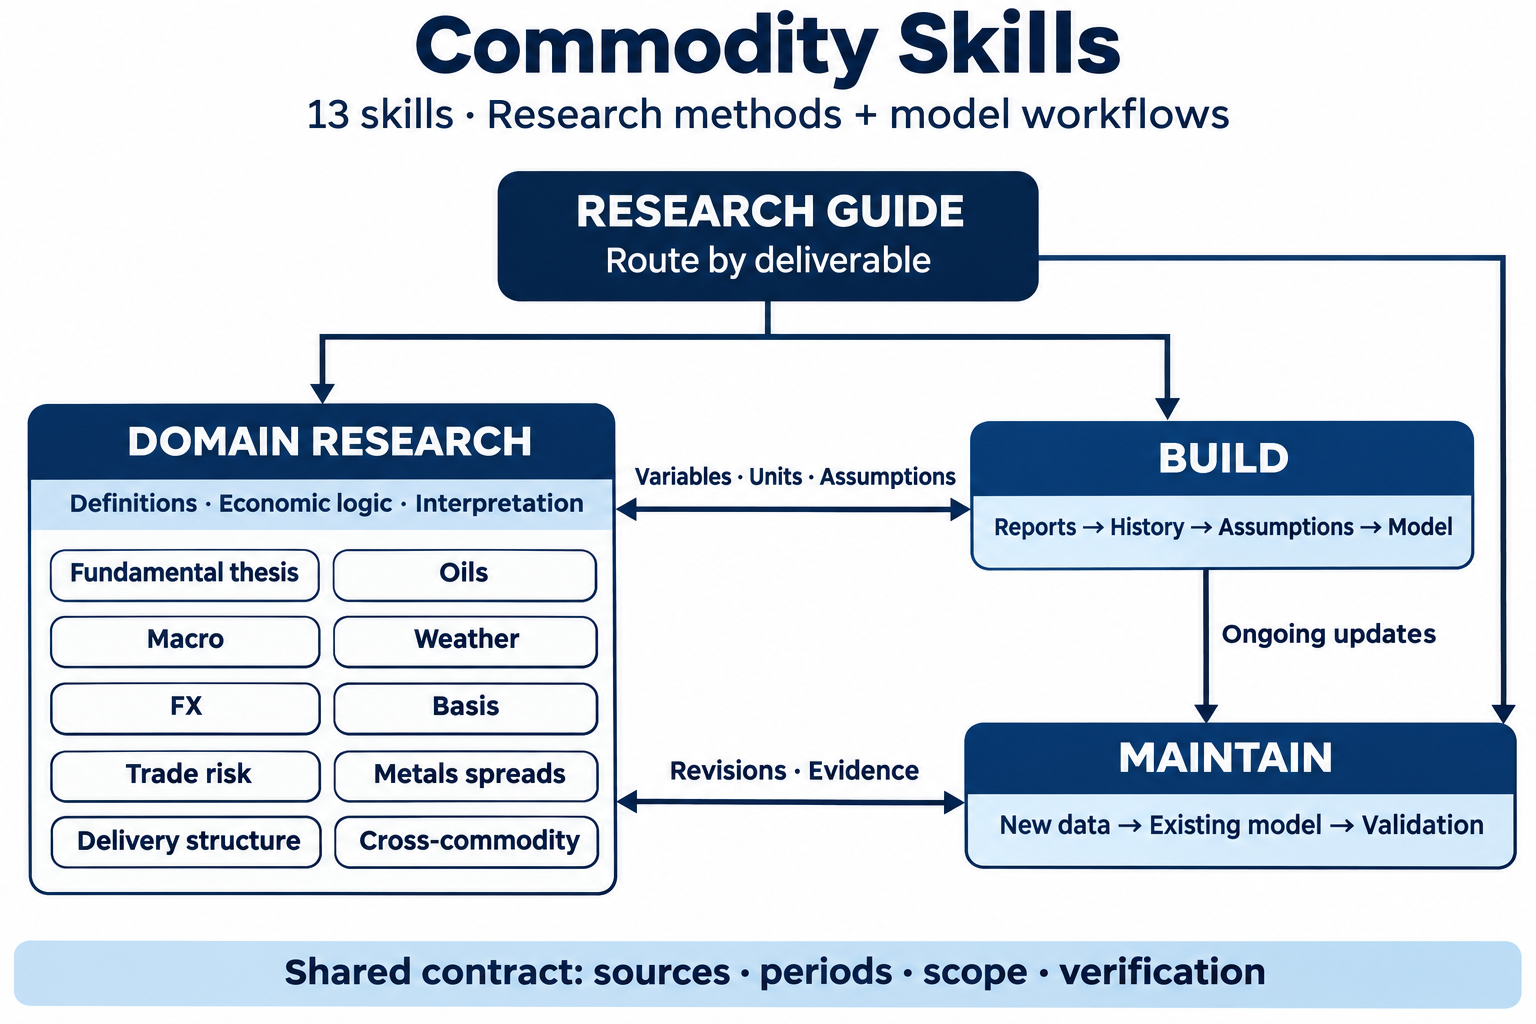
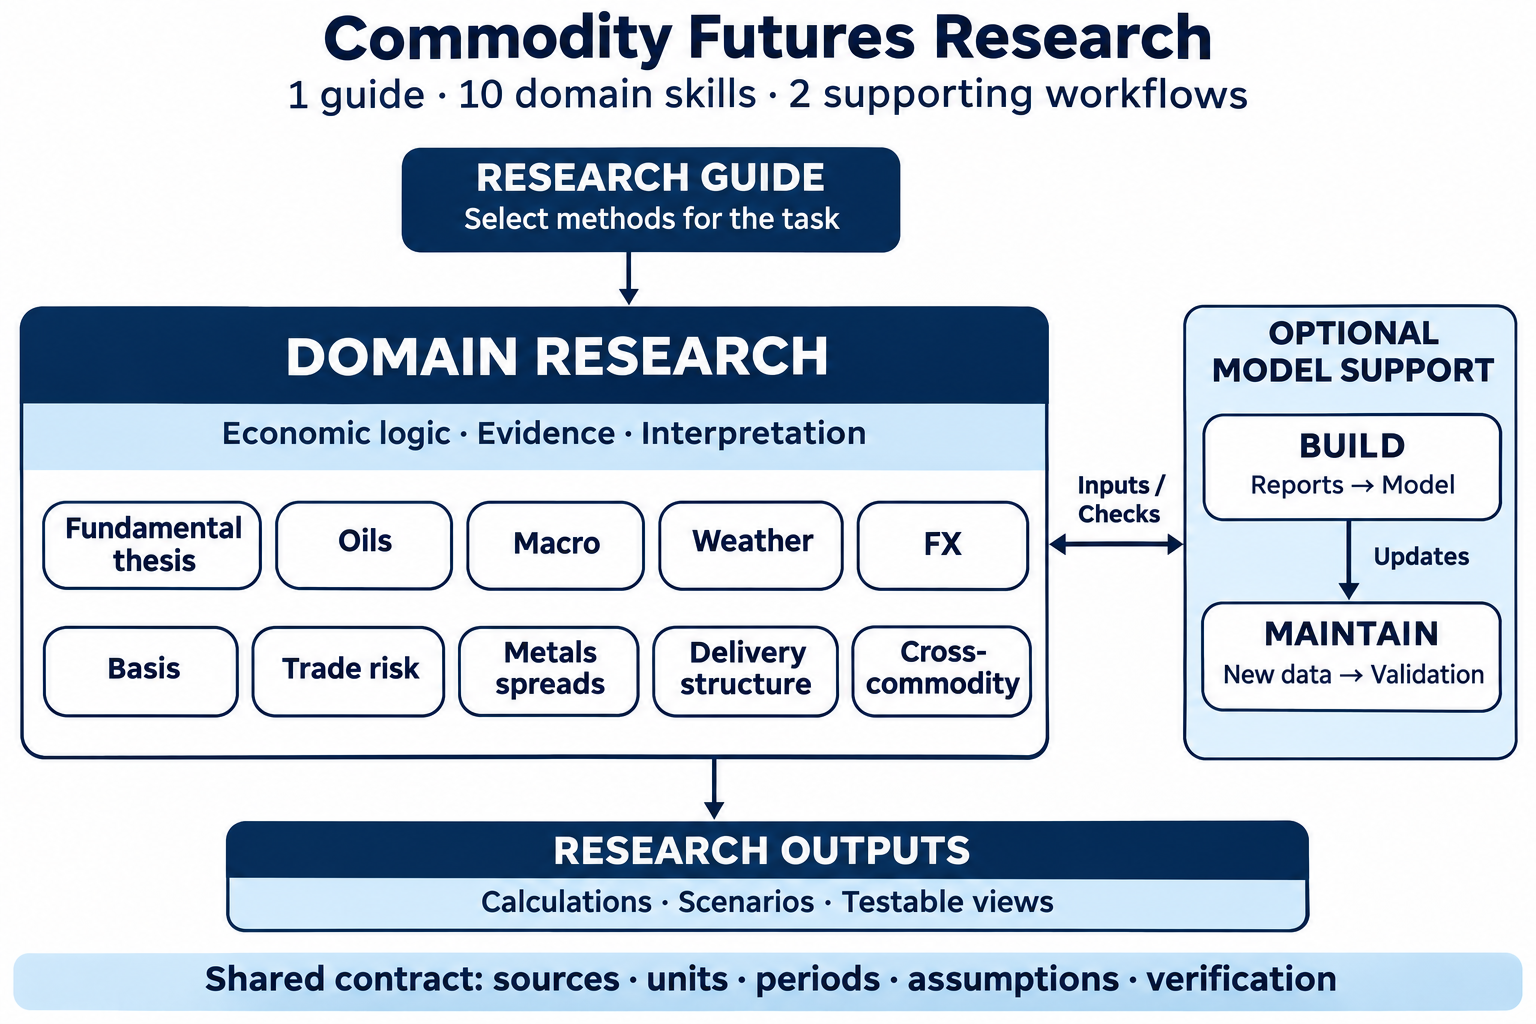
Redesign research library presentation and collaboration diagram

diff --git a/README.en.md b/README.en.md
@@ -1,54 +1,175 @@
-# Commodity Futures Research Skills
+<p align="center">
+  <a href="README.md">简体中文</a> · <strong>English</strong>
+</p>
 
-[简体中文](README.md) | **English**
+<h1 align="center">Commodity Futures Research Skills</h1>
+<p align="center"><strong>Research methods for AI agents working on fundamentals, price relationships and risk.</strong></p>
+<p align="center">Supply & demand · Macro drivers · Basis & spreads · Delivery structure · Trade risk</p>
+<p align="center">
+  <a href="#skill-catalog"><img src="https://img.shields.io/badge/Skills-13-16477b" alt="13 Skills"></a>
+</p>
+<p align="center">
+  <a href="#start-with-a-research-question">Research tasks</a> ·
+  <a href="#input-and-output-examples">Examples</a> ·
+  <a href="#skill-catalog">Skills</a> ·
+  <a href="#install-and-start">Get started</a>
+</p>
 
-An AI skill library for commodity futures research: analyze industry fundamentals, explain price drivers, evaluate basis and spreads, assess trade and hedging risks, and develop evidence-based, testable research views.
+## Why these skills
 
-## Research capabilities
+Commodity research connects physical markets, price relationships and risk exposures on a consistent basis. Falling stocks at one location may not imply a national shortage; a profitable futures leg alone does not establish a profitable hedge.
 
-The library contains **1 research guide, 10 domain skills, and 2 balance-sheet workflows**. Domain skills provide research methods and industry definitions. Balance-sheet construction and maintenance support tasks that require modeling and form one subset of the library.
+This library turns research tasks into callable methods: define the product, region and horizon, check data and units, recompute key relationships, and develop evidence-based views with explicit invalidation conditions.
+
+## Start with a research question
+
+| Research question | Lead skill | Deliverable |
+|---|---|---|
+| Why do inventories and profits diverge? | Fundamental thesis | Supply–demand attribution, baseline and opposing scenarios, invalidation conditions |
+| Is the hedged business profitable despite falling spot prices? | Basis | Physical and futures P&L, costs and residual exposure |
+| Why do PTA and ethylene glycol perform differently? | Cross-commodity | Economic links, individual drivers, leg contributions and counter-evidence |
+| How do policy, weather or FX affect commodities? | Macro / Weather / FX | Transmission channels, timing and verification indicators |
+| Do fewer warehouse receipts imply delivery pressure? | Delivery structure | Deliverable supply, batch eligibility and carry-cost checks |
+| Need to build a model from reports or update a workbook? | Balance-sheet Build / Maintain | Traceable inputs, explicit assumptions and calculation checks |
+
+## How research works
+
+1. **Define the scope**: product, region, contract, observation date and deliverable.
+2. **Select methods**: choose a domain lead; share variables, units, periods and evidence across topics.
+3. **Verify**: distinguish facts, assumptions and gaps; recompute key relationships and test opposing scenarios.
+4. **Deliver a view**: state evidence, uncovered risks, invalidation conditions and the next data to check.
+
+<p align="center">
+  <img src="assets/skill-collaboration.png" width="920" alt="Domain research is the core; balance-sheet Build and Maintain provide optional model support">
+</p>
+
+**1 research guide + 10 domain skills + 2 supporting workflows.** The diagram shows task responsibilities. Balance-sheet workflows are used when modeling is needed. The guide currently routes to the 10 domain skills; invoke Build and Maintain directly by name.
+
+## Input and output examples
+
+These are **synthetic teaching examples already present in the skills**. Numbers illustrate the calculations.
+
+### Spot loses money. What is the combined result?
+
+**Input**: 100 tonnes of spot inventory fully hedged with an equal futures short, with matching location, grade and contract. Spot moves from 3,000 to 2,960 CNY/tonne; futures from 3,050 to 2,980. Total costs are 12 CNY/tonne.
+
+| Calculation | Result |
+|---|---:|
+| Physical P&L | −4,000 CNY |
+| Futures P&L | +7,000 CNY |
+| Combined gross P&L | +3,000 CNY |
+| Net P&L after costs | **+1,800 CNY** |
+
+The output explains that basis strengthens from −50 to −20 CNY/tonne, generating gross P&L of 30 CNY/tonne. Actual work must also verify contract multipliers, quantities and costs. Source: [Basis](skills/commodity-basis/SKILL.md).
+
+<details>
+<summary>Show the calculation</summary>
+
+```text
+Physical P&L = (2,960 − 3,000) × 100 = −4,000 CNY
+Futures P&L = (3,050 − 2,980) × 100 = +7,000 CNY
+Net P&L = −4,000 + 7,000 − 12 × 100 = +1,800 CNY
+```
+
+</details>
+
+### Does a higher product price mean a higher processing margin?
+
+**Input**: product price of 7,200 CNY/tonne; feedstock consumption of 3 tonnes per tonne of product; feedstock price of 2,200 CNY/tonne; processing cost of 450 CNY/tonne of product. Only these cash flows are included. Product price then rises by 90 CNY/tonne and feedstock by 50, with processing cost unchanged.
+
+**Output**: the margin proxy falls from **150 to 90 CNY/tonne of product**, a decline of 60. Feedstock changes must be weighted by consumption, rather than comparing price directions alone. Co-production requires additional revenue and cost inputs. Source: [Cross-commodity](skills/commodity-cross-commodity/SKILL.md).
+
+<details>
+<summary>Show the calculation</summary>
+
+```text
+Initial margin proxy = 7,200 − 3 × 2,200 − 450 = 150 CNY/tonne of product
+Change = 90 − 3 × 50 = −60 CNY/tonne of product
+New margin proxy = 150 − 60 = 90 CNY/tonne of product
+```
+
+</details>
+
+## Skill catalog
+
+### Research guide
 
 | Skill | Purpose |
 |---|---|
 | [Research guide](skills/commodity-research-guide/SKILL.md) | Method selection, terminology, and cross-topic coordination |
+
+### Fundamentals & drivers
+
+| Skill | Purpose |
+|---|---|
 | [Fundamental thesis](skills/commodity-fundamental-thesis/SKILL.md) | Fundamentals, inventories, profits, and falsifiable theses |
 | [Oils](skills/commodity-oils/SKILL.md) | Soybean, palm, and rapeseed oil fundamentals and physical markets |
 | [Macro](skills/commodity-macro/SKILL.md) | Macro and policy transmission to commodity demand and costs |
 | [Weather](skills/commodity-weather/SKILL.md) | Weather effects on production, logistics, and timing |
 | [FX](skills/commodity-fx/SKILL.md) | Currency drivers, payment exposures, and hedging costs |
+
+### Pricing, structure & risk
+
+| Skill | Purpose |
+|---|---|
 | [Basis](skills/commodity-basis/SKILL.md) | Physical pricing, basis trades, and combined physical–futures P&L |
 | [Metals spreads](skills/commodity-metals-spread/SKILL.md) | Metals calendar spreads, carry costs, and import parity |
 | [Delivery structure](skills/commodity-delivery-structure/SKILL.md) | Warehouse receipts, deliverable supply, and contract structure |
 | [Cross-commodity](skills/commodity-cross-commodity/SKILL.md) | Relative value, processing margins, co-products, and substitution |
 | [Trade risk](skills/commodity-trade-risk/SKILL.md) | Performance, credit, ownership, settlement, and funding risk |
+
+### Supporting workflows: balance sheets
+
+| Skill | Purpose |
+|---|---|
 | [Balance-sheet build](skills/commodity-balance-sheet-build/SKILL.md) | Build a supply–demand model from reports, historical data, and assumptions |
 | [Balance-sheet maintain](skills/commodity-balance-sheet-maintain/SKILL.md) | Update existing balances and verify periods, capacity, and formula dependencies |
 
-## How the skills work together
+## Install and start
 
-Select the lead skill for the research question and add supporting skills as needed. Domain skills supply economic logic and interpretation. When modeling is required, use Build or Maintain and pass along variables, units, periods, sources, and assumptions.
+Get the repository:
 
-![Collaboration between the research guide, domain skills, and balance-sheet workflows](assets/skill-collaboration.png)
-
-Build / Maintain represent only the balance-sheet workflows. Macro, basis, spread, delivery, and risk research can run independently without a balance sheet. Arrows indicate task handoffs, not automatic multi-agent execution.
-
-## Use
-
-Copy the required folders from `skills/` into your agent’s skill directory, keeping each `SKILL.md`, its references, and any `agents/` metadata together. Review existing installations before replacing them. Skill instructions are primarily in Chinese.
-
-**Example requests**
-
-```text
-Use $commodity-fundamental-thesis to explain the divergence between
-inventories and profits. Separate facts from assumptions and state
-what would invalidate the thesis.
+```bash
+git clone https://github.com/AY-kkk/commodity-skill.git
 ```
 
+Copy the required **complete skill folders** from `commodity-skill/skills/` into your agent’s skill directory. Preserve `SKILL.md`, `references/` and any `agents/` metadata. Use the installation path configured for your client; review existing folders before replacing them.
+
+Start a new task with a question, source materials and cutoff date:
+
 ```text
-Use $commodity-cross-commodity to compare PTA and ethylene glycol,
-checking each market’s supply, inventories, and shared downstream demand.
+Use $commodity-fundamental-thesis to analyze the monthly reports I provide.
+Product: methanol. Scope: national. Observation cutoff: as stated in the reports.
+Explain the divergence between inventories and profits. Separate facts from
+assumptions and state counter-evidence and invalidation conditions.
 ```
 
-Each skill retains its source references. Keep facts, forecast assumptions, and missing data distinct. Respect the user’s file-editing scope and obtain consent before creating files or worksheets.
+Use `$commodity-research-guide` when unsure which method to choose. Skill instructions are primarily in Chinese. Data retrieval, PDF and Excel tasks require appropriate tools in the client.
 
-`skills/BUILD_MANIFEST.json` records the original 11 research skills; the two balance-sheet workflows are later additions.
+## Repository structure
+
+```text
+commodity-skill/
+├── README.md                         # Chinese entry
+├── README.en.md                      # English
+├── assets/skill-collaboration.png     # Research collaboration diagram
+└── skills/
+    ├── commodity-research-guide/      # Guide and references
+    ├── commodity-fundamental-thesis/  # One domain skill
+    ├── commodity-*/                   # Other domain skills
+    ├── commodity-balance-sheet-build/ # Build balances
+    ├── commodity-balance-sheet-maintain/ # Maintain balances
+    ├── BUILD_MANIFEST.json            # Original research pack build record
+    └── capability-destinations.json   # Original capability mapping
+```
+
+## Sources and boundaries
+
+Each skill retains source references and scope limits. Keep historical teaching parameters separate from current market inputs; verify current rules, contracts and costs as of the research date. State how research conclusions can be tested. Respect the user’s file-editing authorization and obtain consent before creating files or worksheets.
+
+<details>
+<summary>Build provenance and metadata scope</summary>
+
+Metadata for the original guide and 10 domain skills records [cangjie-tools v2.5.0](https://github.com/kangarooking/cangjie-skill) as the generating tool. `BUILD_MANIFEST.json` and `capability-destinations.json` cover those 11 entrypoints. The two balance-sheet workflows are later additions. The tool version is not this library’s version.
+
+</details>

diff --git a/README.md b/README.md
@@ -1,53 +1,174 @@
-# 大宗商品期货研究 Skill 库
+<p align="center">
+  <strong>简体中文</strong> · <a href="README.en.md">English</a>
+</p>
 
-**简体中文** | [English](README.en.md)
+<h1 align="center">大宗商品期货研究 Skill 库</h1>
+<p align="center"><strong>为 AI 助手提供基本面、价格关系与风险研究方法。</strong></p>
+<p align="center">产业供需 · 宏观驱动 · 基差价差 · 交割结构 · 贸易风险</p>
+<p align="center">
+  <a href="#skill-清单"><img src="https://img.shields.io/badge/Skills-13-16477b" alt="13 Skills"></a>
+</p>
+<p align="center">
+  <a href="#从研究问题开始">研究场景</a> ·
+  <a href="#输入与输出示例">输出示例</a> ·
+  <a href="#skill-清单">Skill 清单</a> ·
+  <a href="#安装与首次调用">开始使用</a>
+</p>
 
-面向 AI 助手的大宗商品期货研究工具库，用于梳理产业供需、解释价格驱动、分析基差与价差、评估贸易及套保风险，并形成有依据、可验证的研究判断。
+## 为什么需要这套 Skill
 
-## 研究能力
+商品研究需要把产业事实、价格关系和风险敞口放在同一口径下。库存下降未必代表全国短缺，期货单腿盈利也不能说明套保业务盈利。
 
-全库包含 **1 个研究入口、10 个专业研究 Skill、2 个平衡表工作流**。专业研究组件提供分析方法与产业口径；平衡表搭建和维护服务于需要建模的任务，是整个研究库的一个子集。
+本库把这些研究任务拆成可调用的方法：确定品种、地区与期限，核对数据与单位，复算关键关系，再给出有证据、能被推翻的判断。
+
+## 从研究问题开始
+
+| 你要研究什么 | 先用哪个 Skill | 交付物 |
+|---|---|---|
+| 库存与利润为何背离？ | 基本面与研究观点 | 供需归因、基准与相反情景、观点失效条件 |
+| 现货下跌，套保业务是否仍盈利？ | 基差与套保 | 期现双腿损益、费用及未覆盖敞口 |
+| PTA 与乙二醇为何强弱不同？ | 跨品种研究 | 经济联系、各自驱动、两腿贡献与反证 |
+| 政策、天气或汇率怎样影响商品？ | 宏观 / 天气 / 外汇 | 传导路径、兑现时点和待验证指标 |
+| 仓单减少意味着交割紧张吗？ | 交割与期限结构 | 可交割货源、批次资格及持有成本核查 |
+| 需要从报告建模或更新原表？ | 平衡表搭建 / 维护 | 可追溯输入、明确假设及计算验证 |
+
+## 如何开展研究
+
+1. **定对象**：明确品种、地区、合约、观察日与交付物。
+2. **选方法**：由专业 Skill 主办，跨主题时交接变量、单位、期间和证据。
+3. **做验证**：区分事实、假设与缺口，复算关键关系，检验相反情景。
+4. **交结论**：写明依据、未覆盖风险、失效条件与下一次核验数据。
+
+<p align="center">
+  <img src="assets/skill-collaboration.png" width="920" alt="专业研究为主体，平衡表搭建与维护为按需调用的辅助流程">
+</p>
+
+**1 个研究入口 + 10 个专业研究 Skill + 2 个辅助工作流。** 图表示任务分工；平衡表仅在需要建模时调用。研究入口现有路由覆盖 10 个专业 Skill，搭建和维护可按名称直接调用。
+
+## 输入与输出示例
+
+以下均为仓库已有的**合成教学算例**，数字用于展示核算过程。
+
+### 现货亏损，期现合计结果是多少？
+
+**输入**：同地、同品级、同一合约，100 吨现货与等量期货空头完全对冲。现货价 3,000 → 2,960 元/吨，期货价 3,050 → 2,980 元/吨；全期费用 12 元/吨。
+
+| 核算项目 | 结果 |
+|---|---:|
+| 现货损益 | −4,000 元 |
+| 期货损益 | +7,000 元 |
+| 合计毛收益 | +3,000 元 |
+| 扣费后净收益 | **+1,800 元** |
+
+输出同时解释：基差由 −50 走强至 −20 元/吨，每吨毛收益 30 元；实际业务仍需核对合约乘数、数量和费用。来源：[基差与套保](skills/commodity-basis/SKILL.md)。
+
+<details>
+<summary>展开计算过程</summary>
+
+```text
+现货损益 = (2,960 − 3,000) × 100 = −4,000 元
+期货损益 = (3,050 − 2,980) × 100 = +7,000 元
+净收益 = −4,000 + 7,000 − 12 × 100 = +1,800 元
+```
+
+</details>
+
+### 产品上涨，加工利润也会上升吗？
+
+**输入**：每吨产品报价 7,200 元，原料单耗 3 吨、原料价 2,200 元/吨，加工费 450 元/吨产品；仅考虑上述收支。随后产品涨 90 元/吨，原料涨 50 元/吨，加工费不变。
+
+**输出**：利润代理值由 **150 降至 90 元/吨产品**，减少 60 元。解释价格变化时按单耗折算原料，而非只看两种价格的涨跌方向；联产装置还需补充副产品收入等项目。来源：[跨品种研究](skills/commodity-cross-commodity/SKILL.md)。
+
+<details>
+<summary>展开计算过程</summary>
+
+```text
+初始利润代理值 = 7,200 − 3 × 2,200 − 450 = 150 元/吨产品
+变化 = 90 − 3 × 50 = −60 元/吨产品
+变化后 = 150 − 60 = 90 元/吨产品
+```
+
+</details>
+
+## Skill 清单
+
+### 研究入口
 
 | Skill | 用途 |
 |---|---|
 | [研究入口](skills/commodity-research-guide/SKILL.md) | 研究方法选择、术语查询与跨主题分工 |
+
+### 基本面与驱动
+
+| Skill | 用途 |
+|---|---|
 | [基本面与研究观点](skills/commodity-fundamental-thesis/SKILL.md) | 产业供需、库存与利润分析，建立可证伪观点 |
 | [油脂研究](skills/commodity-oils/SKILL.md) | 豆油、棕榈油、菜油产业链及现货研究 |
 | [宏观研究](skills/commodity-macro/SKILL.md) | 宏观与政策向商品需求、成本的传导 |
 | [天气影响](skills/commodity-weather/SKILL.md) | 天气对产量、物流及供需时点的影响 |
 | [外汇研究](skills/commodity-fx/SKILL.md) | 汇率驱动、收付汇敞口与锁汇成本 |
+
+### 定价、结构与风险
+
+| Skill | 用途 |
+|---|---|
 | [基差与套保](skills/commodity-basis/SKILL.md) | 现货点价、基差交易与期现合并损益 |
 | [有色价差](skills/commodity-metals-spread/SKILL.md) | 有色月差、持有成本与进口窗口 |
 | [交割与期限结构](skills/commodity-delivery-structure/SKILL.md) | 仓单、可交割货源与期限结构 |
 | [跨品种研究](skills/commodity-cross-commodity/SKILL.md) | 跨品种强弱、加工利润、伴生及替代关系 |
 | [贸易风险](skills/commodity-trade-risk/SKILL.md) | 履约、信用、货权、结算与资金风险 |
+
+### 辅助工作流：平衡表
+
+| Skill | 用途 |
+|---|---|
 | [平衡表搭建](skills/commodity-balance-sheet-build/SKILL.md) | 从报告整理历史数据与假设，搭建供需模型 |
 | [平衡表维护](skills/commodity-balance-sheet-maintain/SKILL.md) | 更新已有平衡表，核对期间、产能与公式传导 |
 
-## 组件协作
+## 安装与首次调用
 
-从研究问题选择主办 Skill，按需补充其他组件。专业 Skill 负责经济逻辑和结果解释；涉及建模时，再调用搭建或维护工作流，交接变量、单位、期间、来源和假设。
+获取仓库：
 
-![组件协作关系：研究入口、专业研究与平衡表工作流](assets/skill-collaboration.png)
-
-图中 Build / Maintain 仅代表平衡表工作流。宏观、基差、价差、交割和风险等研究可独立开展，无需经过平衡表；箭头表示任务交接，不表示自动启动多代理。
-
-## 使用方式
-
-将 `skills/` 下所需目录放入 AI 助手的 Skill 目录，保留各自的 `SKILL.md`、参考资料和已有的 `agents/` 元数据。替换已有安装前先核对内容。Skill 正文以中文为主。
-
-**调用示例**
-
-```text
-使用 $commodity-fundamental-thesis，解释该品种库存与利润背离的原因，
-区分事实与假设，并给出观点失效条件。
+```bash
+git clone https://github.com/AY-kkk/commodity-skill.git
 ```
 
+将 `commodity-skill/skills/` 下所需的 **Skill 目录整体**放入所用 AI 助手的 Skill 目录，保留 `SKILL.md`、`references/` 及已有的 `agents/`。安装路径按客户端配置确定；替换已有目录前先核对内容。
+
+启动新任务并描述问题、资料和截止日期，例如：
+
 ```text
-使用 $commodity-cross-commodity，分析 PTA 与乙二醇的相对强弱，
-分别核对供需、库存和共同下游需求。
+使用 $commodity-fundamental-thesis 分析我提供的月报。
+品种：甲醇；范围：全国；观察截止日：以附件为准。
+解释库存与利润背离，区分事实与假设，列出相反证据和观点失效条件。
 ```
 
-各 Skill 保留来源依据；事实、预测假设与缺失数据分开处理。文件操作遵循用户授权，新增文件或工作表须先获同意。
+不确定用哪个方法时，先调用 `$commodity-research-guide`。Skill 正文以中文为主；执行取数、PDF 或 Excel 操作需要客户端具备相应工具。
 
-`skills/BUILD_MANIFEST.json` 记录原始 11 个研究 Skill；两个平衡表工作流为后续扩展。
+## 仓库结构
+
+```text
+commodity-skill/
+├── README.md                         # 中文入口
+├── README.en.md                      # English
+├── assets/skill-collaboration.png     # 研究协作图
+└── skills/
+    ├── commodity-research-guide/      # 研究入口与参考资料
+    ├── commodity-fundamental-thesis/  # 专业研究之一
+    ├── commodity-*/                   # 其余专业研究 Skill
+    ├── commodity-balance-sheet-build/ # 平衡表搭建
+    ├── commodity-balance-sheet-maintain/ # 平衡表维护
+    ├── BUILD_MANIFEST.json            # 原始研究包构建记录
+    └── capability-destinations.json   # 原始能力映射
+```
+
+## 来源与使用边界
+
+各 Skill 保留来源与适用边界。历史教学参数与当前市场输入分开；现行规则、合约和费用按研究日核实。研究结论应给出验证条件，文件操作遵循用户授权，新增文件或工作表须先获同意。
+
+<details>
+<summary>构建来源与元数据范围</summary>
+
+原始研究入口与 10 个专业 Skill 的元数据记录生成工具为 [cangjie-tools v2.5.0](https://github.com/kangarooking/cangjie-skill)。`BUILD_MANIFEST.json` 与 `capability-destinations.json` 对应这 11 个入口；两个平衡表工作流为后续扩展。工具版本不代表本库版本。
+
+</details>
